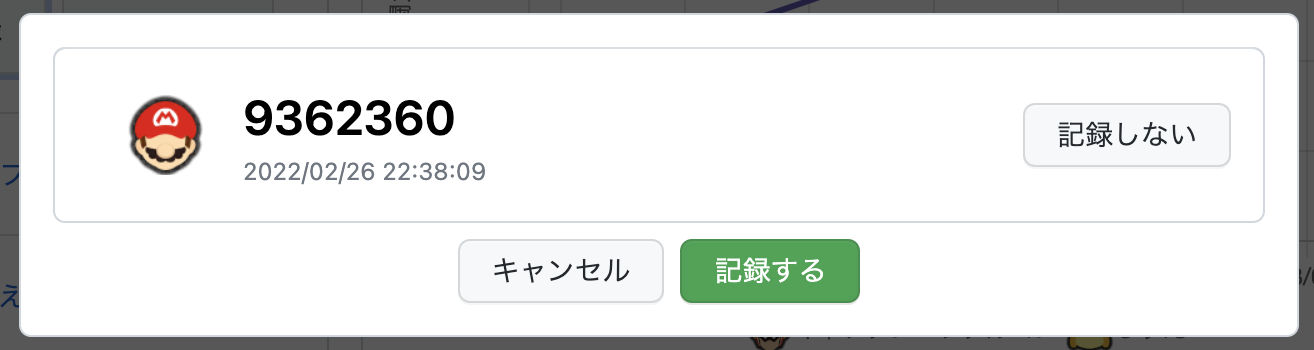
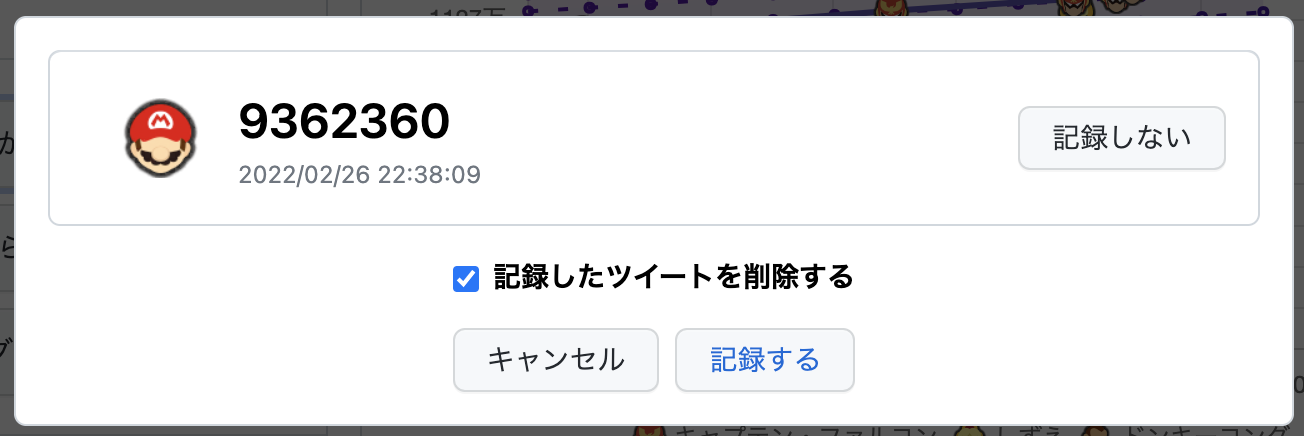
UPDATE: 画像から戦闘力を記録可能に

diff --git a/src/routes/help.svelte b/src/routes/help.svelte
@@ -19,27 +19,42 @@
             SmashPowerLogger を使って戦闘力を記録すると、戦闘力の変化が折れ線グラフによって可視化されるため、<b>実力の変化により敏感に</b>なれます。<br>
             また、<a href="https://kumamate.net/" target="_blank" rel="noopener noreferrer">クマメイト</a>様のご協力により、VIPボーダーラインおよび<a href="https://kumamate.net/vip/" target="_blank" rel="noopener noreferrer">世界戦闘力の段位</a>が日次で集計され、可視化されます。<br>
             各段位のボーダーラインと自分の戦闘力を比較することによって、<b>世界のプレイヤーに対する自分の実力の変化</b>を知ることもできます。ご活用ください。<br>
-            ver 0.0.1 時点では、ユーザーページ機能（戦闘力の記録・共有）のみを提供しています。
+            現時点では、ユーザーページ機能（戦闘力の記録・共有）のみを提供しています。
         </div>
         <h2 id="how-to-register-power" class="mt-4 mb-2">戦闘力の記録方法</h2>
         <div class="p-responsive">
             SmashPowerLoggerでは、スクリーンショットを用いて戦闘力を記録します。<br>
             まず、大乱闘スマッシュブラザーズSPECIALの「オンライン > だれかと」モードでファイター選択画面を開きます。<br>
             戦闘力を記録したいファイターにカーソルを合わせ、Switch本体の機能でスクリーンショットを撮ります。<br>
-            <div class="col-md-6 col-10">
+            <div class="col-lg-6 col-10">
                 <img class="col-12" src="/mario_power.jpeg" alt="マリオの戦闘力スクリーンショット"/>
             </div>
+            <h3 class="mt-2">方法1. Twitter経由で記録する</h3>
             スクリーンショットを用意できたら、<a href="https://support.nintendo.co.jp/app/answers/detail/a_id/37589" target="_blank" rel="noopener noreferrer">Switch本体の画像一覧からTwitterへ共有</a>します。<br>
-            ツイートがされていることを確認できたら、SmashPowerLoggerのご自身のユーザーページで「戦闘力を記録」ボタンを押します（ツイート完了から読み込めるようになるまで5秒程度かかります）。<br>
-            <div class="col-md-4 col-8">
-                <img class="col-12" src="/screenshot_register.png" alt="「戦闘力を記録」ボタン"/>
+            ツイートがされていることを確認できたら、SmashPowerLoggerのご自身のユーザーページで「ツイートから戦闘力を記録」ボタンを押します（ツイート完了から読み込めるようになるまで5秒程度かかります）。<br>
+            <div class="col-lg-4 col-8">
+                <img class="col-12" src="/screenshot_register_1.png" alt="「戦闘力を記録」ボタン"/>
             </div>
-            「戦闘力を記録」ボタンを押すと、SmashPowerLoggerはあなたのツイートを読み込み、自動でファイター・戦闘力・日付を認識します。<br>
+            「戦闘力を記録」ボタンを押すと、SmashPowerLoggerはあなたのツイートを読み込み、自動でファイター・戦闘力・日付を認識します（日付はツイートした日時です）。<br>
             意図しないデータがある場合は「記録しない」ボタンを押して除去してください。<br>
             認識結果に満足された場合は「記録する」ボタンを押すことで戦闘力が記録されます。<br>
-            <div class="col-md-6 col-10">
+            「記録したツイートを削除する」にチェックを入れた状態で「記録する」を押すと、記録と同時にツイートが削除されます。<br>
+            <div class="col-lg-6 col-10">
                 <img class="col-12" src="/screenshot_recognize.png" alt="読み込み結果"/>
             </div>
+            <h3 class="mt-2">方法2. スクリーンショットを直接アップロードして記録する</h3>
+            ツイートをしたくない場合、Switchと連携しているアカウントとは別のアカウントで記録したい場合は、スクリーンショットをSmashPowerLoggerに直接アップロードして記録することができます。<br>
+            お使いのデバイスに戦闘力のスクリーンショットを用意し、「画像から戦闘力を記録」ボタンを押します。<br>
+            <div class="col-lg-4 col-8">
+                <img class="col-12" src="/screenshot_register_2.png" alt="「戦闘力を記録」ボタン"/>
+            </div>
+            以下のような画面が表示されます。<br>
+            画像をドラッグ&ドロップするか、灰色の領域をクリック・タップすることで画像をアップロードできます。<br>
+            自動でファイター・戦闘力・日付を認識します（日付はアップロードした日時です）。<br>
+            <div class="col-lg-6 col-10">
+                <img class="col-12" src="/screenshot_upload.png" alt="画像アップロード"/>
+            </div>
+            画像の認識に成功したら、その後は方法1と同様です。<br>
         </div>
         <h2 id="troubleshooting" class="mt-4 mb-2">戦闘力が記録できないときは</h2>
         <div class="p-responsive">
@@ -47,12 +62,12 @@
             <h3>1. スクリーンショット</h3>
             左下にファイター名が、右下に世界戦闘力が写っていることをご確認ください。<br>
             特に、カーソルがいずれかの上にあると認識に失敗してしまうためご注意ください（下図の青枠で囲まれた範囲にカーソルがあると失敗することがあります）。<br>
-            <div class="col-md-6 col-10">
+            <div class="col-lg-6 col-10">
                 <img class="col-12" src="/recognize_zone.png" alt="認識範囲"/>
             </div>
             また、クッパJr.やMiiファイターなど一部のキャラは、ファイターの色を変えたりMiiを選択したりしていない状態のデフォルトの名前以外は認識できませんので、ご了承ください。<br>
             <h3>2. ツイート</h3>
-            ver 0.0.1 時点では、SmashPowerLoggerは最大で最新20件より過去のツイートは読み込めません。<br>
+            現時点では、SmashPowerLoggerは最新20件、前回の記録以降のツイートの少ないほうの数だけツイートを読み込みます。<br>
             また、一度の記録で読み込めるスクリーンショットの枚数は4枚までです。<br>
             Twitterにスクリーンショットを共有する際のデフォルトのハッシュタグ（#SmashBrosSP #NintendoSwitch）は、認識のために必要なので消さずに投稿してください。<br>
             <h3>3. SmashPowerLogger</h3>

diff --git a/src/lib/ImageUpload.svelte b/src/lib/ImageUpload.svelte
@@ -1,0 +1,153 @@
+
+<script>
+    import Dropzone from "svelte-file-dropzone";
+    import moment from "moment";
+    import { getContext } from "svelte";
+    import { flash } from "$lib/stores/flash";
+    const { close } = getContext("simple-modal");
+
+    export let splId;
+
+    let disabled = false;
+    async function registPower() {
+        disabled = true;
+        if (powers.length === 0) {
+            return;
+        }
+        const response = await fetch(`/users/${splId}/powers`, {
+            method: "POST",
+            cache: "no-cache",
+            headers: {
+                "Content-Type": "application/json"
+            },
+            body: JSON.stringify(powers)
+        });
+        if (response.ok) {
+            // ページを更新して戦闘力を反映
+            location.reload();
+            return;
+        }
+        if (response.status == 403) {
+            flash.update(() => {
+                return {
+                    type: "error",
+                    message: "戦闘力の登録に成功しましたが、ツイートの削除に失敗しました"
+                }
+            });
+            close();
+            document.body.scrollIntoView();
+            return;
+        }
+        flash.update(() => {
+            return {
+                type: "error",
+                message: "戦闘力の登録に失敗しました"
+            }
+        });
+        close();
+        document.body.scrollIntoView();
+    }
+
+    let acceptedFiles = [];
+    let powers;
+    let postObjs;
+    async function handleFilesSelect(e) {
+        const { acceptedFiles: accepted, fileRejections } = e.detail;
+        acceptedFiles = [...acceptedFiles, ...accepted];
+        if (acceptedFiles.length == 0) {
+            return;
+        }
+        postObjs = await Promise.all(acceptedFiles.map(async (file, index) => {
+            if (index > 3) {
+                return;
+            }
+            const obj = {};
+            obj.tweetId = "dummy";
+            obj.media_key = String(index); // 除却に使う
+            obj.base64 = await readFile(file);
+            obj.createdAt = moment().utcOffset(0).format("YYYY-MM-DDTHH:mm:ss[Z]");
+            return obj;
+        }));
+    }
+
+    async function recognize() {
+        const response = await fetch(`/users/${splId}/powersimage`, {
+            method: "POST",
+            headers: {
+                "Content-Type": "application/json"
+            },
+            body: JSON.stringify(postObjs)
+        });
+        powers = await response.json();
+        return powers;
+    }
+
+    function readFile(file) {
+        return new Promise((resolve, reject) => {
+            var fr = new FileReader();  
+            fr.onload = () => {
+                resolve(fr.result.split(",")[1]);
+            };
+            fr.onerror = reject;
+            fr.readAsDataURL(file);
+        });
+    }
+
+    function deleteData(mediaKey) {
+        powers = powers.filter(e => e.key != mediaKey);
+    }
+</script>
+
+{#if !postObjs}
+<div class="Box">
+    <Dropzone on:drop={handleFilesSelect} accept="image/*">
+        <p class="text-center">戦闘力のスクリーンショットをドラッグ&ドロップするか、<br class="d-md-inline d-none">ここをクリックして選択してください</p>
+        <p>一度に4枚まで読み込めます</p>
+    </Dropzone>
+</div>
+{:else}
+    {#await recognize()}
+    <div class="Box">
+        <div class="blankslate">
+            <h3 class="blankslate-heading">画像から戦闘力を読み込んでいます<span class="AnimatedEllipsis"></span></h3>
+            <p>これには数秒かかることがあります</p>
+        </div>
+    </div>
+    {:then datas} 
+        <div class="Box">
+        {#each powers as data (data.key)}
+            <div class="Box-row d-flex flex-items-center">
+                <div class="flex-auto d-flex flex-column flex-md-row">
+                    <div class="col-2 d-flex flex-justify-center flex-items-center">
+                        <img class="avatar-6" alt={data.fighter} src={data.icon}>
+                    </div>
+                    <div>
+                        <div class="h2">{data.power}</div>
+                        <div class="text-small color-fg-subtle">
+                            {moment(data.time, "YYYY-MM-DDTHH:mm:ssZ").format("YYYY/MM/DD HH:mm:ss")}
+                        </div>
+                    </div>
+                </div>
+                <button type="button" class="btn" on:click={() => deleteData(data.key)}>記録しない</button>
+            </div>
+        {:else}
+            <div class="blankslate">
+                <h3 class="blankslate-heading">記録する戦闘力が見つかりません</h3>
+                <p><a href="/help">ヘルプページ</a>を参照してください</p>
+                <p>
+                    現在本サービスはβ版で、一部ファイターでは正常な画像でも認識が失敗することがあります。
+                    全ファイターを安定して認識させるために、認識失敗した画像を<a href="https://twitter.com/chixinossb" target="_blank" rel="noopener noreferrer">Twitterで共有</a>いただけると幸いです。
+                </p>
+            </div>
+        {/each}
+        </div>
+    {/await}
+{/if}
+<div class="d-flex flex-justify-center mt-4">
+    <button class="btn btn-secondary mr-2" on:click={close}>
+        キャンセル
+    </button>
+    <button class="btn btn-outline" on:click={registPower} aria-disabled={!powers || disabled} disabled={!powers || disabled}>
+        記録する
+    </button>
+</div>

diff --git a/src/lib/UserPage.svelte b/src/lib/UserPage.svelte
@@ -12,9 +12,11 @@
     import Modal, { bind } from "svelte-simple-modal";
     import PowerLoading from "$lib/PowerLoading.svelte";
     import TweetEdit from "./TweetEdit.svelte";
+    import ImageUpload from "./ImageUpload.svelte";
     const modal = writable(null);
     const showPowerModal = () => modal.set(bind(PowerLoading, { splId: id }));
-    const showShareModal  = () => modal.set(bind(TweetEdit, {id}));
+    const showShareModal = () => modal.set(bind(TweetEdit, {id}));
+    const showImageModal = () => modal.set(bind(ImageUpload, { splId: id }));
 </script>
 
 <Modal
@@ -49,9 +51,15 @@
             </div>
             {#if user && id == user.splId}
             <div class="Box-row d-flex flex-wrap flex-justify-center">
-                <button class="btn btn-large m-1" on:click={showPowerModal}>戦闘力を記録</button>
-                <button on:click={showShareModal} class="btn btn-large m-1 d-inline-flex flex-items-center">
-                    <img class="mr-1" src="/twitter_logo.svg" width="16" height="16" alt="シェア"/> シェア
+                <button class="btn btn-large btn-block m-1 d-flex flex-justify-center flex-items-center" on:click={showPowerModal}>
+                    <img class="mr-1" src="/twitter_logo.svg" width="16" height="16" alt="twitter"/> ツイートから戦闘力を記録
+                </button>
+                <button class="btn btn-large btn-block m-1 d-flex flex-justify-center flex-items-center" on:click={showImageModal}>
+                    <svg class="mr-1" xmlns="http://www.w3.org/2000/svg" viewBox="0 0 16 16" width="16" height="16"><path fill-rule="evenodd" d="M1.75 2.5a.25.25 0 00-.25.25v10.5c0 .138.112.25.25.25h.94a.76.76 0 01.03-.03l6.077-6.078a1.75 1.75 0 012.412-.06L14.5 10.31V2.75a.25.25 0 00-.25-.25H1.75zm12.5 11H4.81l5.048-5.047a.25.25 0 01.344-.009l4.298 3.889v.917a.25.25 0 01-.25.25zm1.75-.25V2.75A1.75 1.75 0 0014.25 1H1.75A1.75 1.75 0 000 2.75v10.5C0 14.216.784 15 1.75 15h12.5A1.75 1.75 0 0016 13.25zM5.5 6a.5.5 0 11-1 0 .5.5 0 011 0zM7 6a2 2 0 11-4 0 2 2 0 014 0z"></path></svg>
+                    画像から戦闘力を記録
+                </button>
+                <button on:click={showShareModal} class="btn btn-large btn-block m-1 d-flex flex-justify-center flex-items-center">
+                    <img class="mr-1" src="/twitter_logo.svg" width="16" height="16" alt="twitter"/> 戦闘力グラフをツイート
                 </button>
             </div>
             {/if}

diff --git a/src/routes/history.svelte b/src/routes/history.svelte
@@ -7,6 +7,14 @@
         <h1>更新履歴</h1>
         <div class="TimelineItem TimelineItem--condensed">
             <div class="TimelineItem-badge">
+                <svg xmlns="http://www.w3.org/2000/svg" viewBox="0 0 16 16" width="16" height="16"><path fill-rule="evenodd" d="M10.561 1.5a.016.016 0 00-.01.004L3.286 8.571A.25.25 0 003.462 9H6.75a.75.75 0 01.694 1.034l-1.713 4.188 6.982-6.793A.25.25 0 0012.538 7H9.25a.75.75 0 01-.683-1.06l2.008-4.418.003-.006a.02.02 0 00-.004-.009.02.02 0 00-.006-.006L10.56 1.5zM9.504.43a1.516 1.516 0 012.437 1.713L10.415 5.5h2.123c1.57 0 2.346 1.909 1.22 3.004l-7.34 7.142a1.25 1.25 0 01-.871.354h-.302a1.25 1.25 0 01-1.157-1.723L5.633 10.5H3.462c-1.57 0-2.346-1.909-1.22-3.004L9.503.429z"></path></svg>
+            </div>
+            <div class="TimelineItem-body">
+                ver 0.3.0 戦闘力のスクリーンショットを直接アップロードする記録方法を追加しました。 (2022/04/02)
+            </div>
+        </div>
+        <div class="TimelineItem TimelineItem--condensed">
+            <div class="TimelineItem-badge">
                 <svg xmlns="http://www.w3.org/2000/svg" viewBox="0 0 16 16" width="16" height="16"><path fill-rule="evenodd" d="M5.433 2.304A4.494 4.494 0 003.5 6c0 1.598.832 3.002 2.09 3.802.518.328.929.923.902 1.64v.008l-.164 3.337a.75.75 0 11-1.498-.073l.163-3.33c.002-.085-.05-.216-.207-.316A5.996 5.996 0 012 6a5.994 5.994 0 012.567-4.92 1.482 1.482 0 011.673-.04c.462.296.76.827.76 1.423v2.82c0 .082.041.16.11.206l.75.51a.25.25 0 00.28 0l.75-.51A.25.25 0 009 5.282V2.463c0-.596.298-1.127.76-1.423a1.482 1.482 0 011.673.04A5.994 5.994 0 0114 6a5.996 5.996 0 01-2.786 5.068c-.157.1-.209.23-.207.315l.163 3.33a.75.75 0 11-1.498.074l-.164-3.345c-.027-.717.384-1.312.902-1.64A4.496 4.496 0 0012.5 6a4.494 4.494 0 00-1.933-3.696c-.024.017-.067.067-.067.16v2.818a1.75 1.75 0 01-.767 1.448l-.75.51a1.75 1.75 0 01-1.966 0l-.75-.51A1.75 1.75 0 015.5 5.282V2.463c0-.092-.043-.142-.067-.159zm.01-.005z"></path></svg>
             </div>
             <div class="TimelineItem-body">

diff --git a/src/routes/users/[id]/powersimage.js b/src/routes/users/[id]/powersimage.js
@@ -1,0 +1,42 @@
+export async function post({ request, params, locals }) {
+    if (isNaN(params.id)) {
+        return {
+            status: 404,
+            body: []
+        }
+    }
+    const splId = Number(params.id);
+    // セッションのユーザーと記録ボタンを押したユーザーの同一チェック
+    if (locals.user.info.splId != splId) {
+        return {
+            status: 403
+        }
+    }
+    const req = await request.json();
+    const data = await recognizeImages(splId, req);
+
+    return {
+        status: 200,
+        body: data
+    };
+}
+
+async function recognizeImages(splId, urlList) {
+    if (urlList.length === 0) {
+        return [];
+    }
+    const body = JSON.stringify({
+        splId,
+        urlList
+    });
+    const response = await fetch(process.env.API_GATEWAY_ENDPOINT + "/recognition", {
+        method: "POST",
+        headers: {
+            "Content-Type": "application/json"
+        },
+        body: body
+    });
+    const res = await response.json();
+    
+    return JSON.parse(res.body);
+}

diff --git a/src/lib/PowerGraph.svelte b/src/lib/PowerGraph.svelte
@@ -39,7 +39,6 @@
         // 最大と最小を取得
         const max = powers.reduce((a, b) => a.y > b.y ? a : b);
         const min = powers.reduce((a, b) => a.y < b.y ? a : b);
-        console.log(max, min);
         // 最大の直前のボーダーを取得
         const maxBorder = borders.find(
             e => moment(e.createdAt).isBetween(
@@ -54,7 +53,6 @@
                 moment(min.x).add(1, "days")
             )
         ) || borders[borders.length - 1];
-        console.log(maxBorder, minBorder);
         const ranks = getRanks().reverse();
         let upperRank;
         const drawRanks = [];

diff --git a/src/lib/TweetEdit.svelte b/src/lib/TweetEdit.svelte
@@ -65,7 +65,7 @@
 
 <div class="d-flex flex-column">
     <div class="col-12 form-control" class:errored={restCount < 0}>
-        <textarea bind:value class="col-12" style="resize: none; border: none; outline: none;"></textarea>
+        <textarea placeholder="ツイートの内容を記入できます" bind:value class="col-12" style="resize: none; border: none; outline: none;"></textarea>
         <div class="color-fg-subtle text-right">{hashTag} {window.location.href}</div>
     </div>
     <div class="col-12 color-fg-subtle text-right">{restCount}</div>

diff --git a/src/routes/__layout.svelte b/src/routes/__layout.svelte
@@ -33,7 +33,7 @@
                 <img src="/favicon.png" alt="logo" width="24" height="24" />
             </a>
             <a href="/" class="Header-link v-align-middle">SmashPowerLogger</a>
-            <a href="/history" class="f6 Link--primary color-fg-on-emphasis v-align-bottom pl-1">0.2.1 β</a>
+            <a href="/history" class="f6 Link--primary color-fg-on-emphasis v-align-bottom pl-1">0.3.0 β</a>
         </div>
         <div class="Header-item">
             {#if !user }
